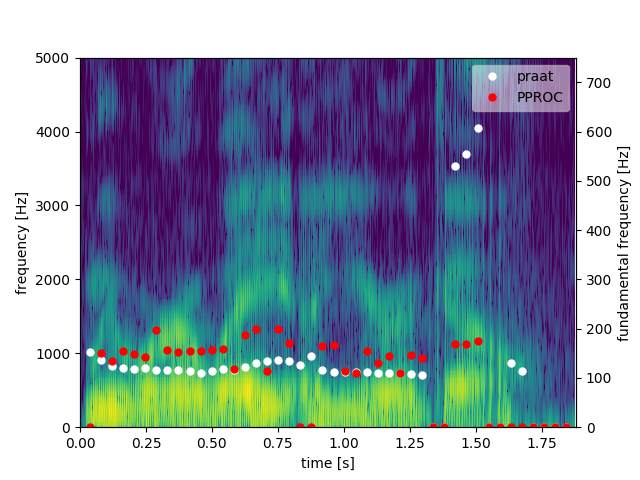
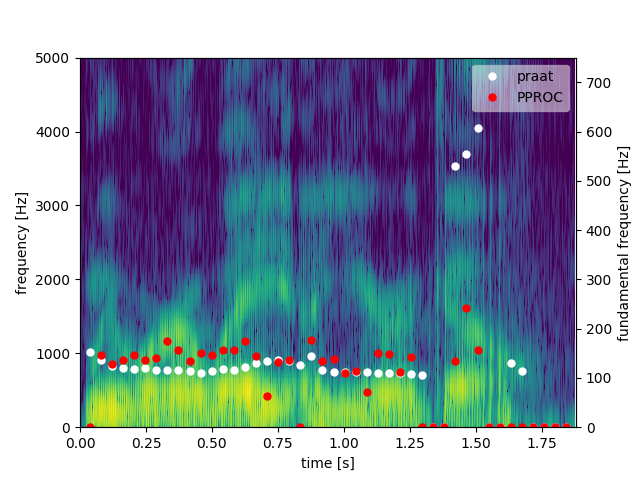
valid error output by improving initial filter

diff --git a/pproc_unit_tests.py b/pproc_unit_tests.py
@@ -268,17 +268,17 @@ def error_test(framesize=.042):
         pitches.append(pTof(pitch[:total_len]))
         pitches_praat.append(pitch_praat[:total_len])
         print("Current wav file: Recordings/{}_AM1.wav".format(i))
-        Testing.compute_errors(pitch[:total_len],pitch_praat[:total_len],12000,True)
+        Testing.compute_errors(pTof(pitch[:total_len]),pitch_praat[:total_len],12000,True)
 
         sound = parselmouth.Sound("Recordings/{}_AM2.wav".format(i))
         soundMono = np.array(sound.convert_to_mono()).flatten()
-        pitch = pproc.pproc_calculate_pitch(soundMono, sound.xs(), framesize=framesize, ecutoff=0.02)
+        pitch = pproc.pproc_calculate_pitch(soundMono, sound.xs(), framesize=framesize, ecutoff=0.0175)
         pitch_praat = pitch_parselmouth.compute_pitch_praat("Recordings/{}_AM2.wav".format(i), 'PPROC', pTof(pitch), True)
         total_len = min(len(pitch),len(pitch_praat))
         pitches.append(pTof(pitch[:total_len]))
         pitches_praat.append(pitch_praat[:total_len])
         print("Current wav file: Recordings/{}_AM2.wav".format(i))
-        Testing.compute_errors(pitch[:total_len],pitch_praat[:total_len],12000,True)
+        Testing.compute_errors(pTof(pitch[:total_len]),pitch_praat[:total_len],12000,True)
 
         sound = parselmouth.Sound("Recordings/{}_AF1.wav".format(i))
         soundMono = np.array(sound.convert_to_mono()).flatten()
@@ -288,12 +288,12 @@ def error_test(framesize=.042):
         pitches.append(pTof(pitch[:total_len]))
         pitches_praat.append(pitch_praat[:total_len])
         print("Current wav file: Recordings/{}_AF1.wav".format(i))
-        Testing.compute_errors(pitch[:total_len],pitch_praat[:total_len],12000,True)
+        Testing.compute_errors(pTof(pitch[:total_len]),pitch_praat[:total_len],12000,True)
 
     Testing.compute_errors_mean(pitches,pitches_praat,12000)
     return
     
-#test_generate_filters()
+test_generate_filters()
 #test_filter_audio()
 #test_find_peaks()
 #test_all("PureTones/100Hz.wav", frameSize=.2)

diff --git a/pproc.py b/pproc.py
@@ -22,9 +22,9 @@ def generate_filter(filterType, fs=12000):
     gain = [1, 1, 1, 0, 0, 0]
     myFilter = signal.firls(numtaps, bands, gain, fs=fs)
     '''
-    cutoff = 900
-    trans_width = 100  # Width of transition from pass band to stop band, Hz
-    numtaps = 300      # Size of the FIR filter.
+    cutoff = 600
+    trans_width = 250  # Width of transition from pass band to stop band, Hz
+    numtaps = 100 #300      # Size of the FIR filter.
     myFilter = signal.remez(numtaps, [0, cutoff, cutoff + trans_width, 0.5*fs], [1, 0], Hz=fs)
     
     return myFilter
@@ -205,7 +205,7 @@ def peak_rundown(m, t, fs=12000):
                 if Pav_prev == 0:
                     Pav = Pnew
                 else:
-                    Pav = (Pav_prev + Pnew)/2 #min(max((Pav_prev + Pnew)/2, 4/1000), 10/1000)#
+                    Pav =  min(max((Pav_prev + Pnew)/2, .003), .016) #(Pav_prev + Pnew)/2
                 Pav_prev = temp
                 lastPeak = i
                 tau = .4*min(max(Pav, 4/1000), 10/1000) #Pav
@@ -419,10 +419,11 @@ def pproc_calculate_pitch(sound, t, framesize=.042, fs=12000, ecutoff=.35):
     i = updateSize
     counter = 0
     while i < len(sound):
+        # TODO: Would overlap add make this better?
         windowedFrame = filtSound[i-updateSize:i]*np.hamming(len(filtSound[i-updateSize:i]))
         # LAB 4: V/U detection
         energy = np.sum(np.square(np.abs(filtSound[i-updateSize:i])))
-        if energy < ecutoff:
+        if energy < ecutoff -.005:
             i += updateSize
             counter += 1
             #print(energy)
